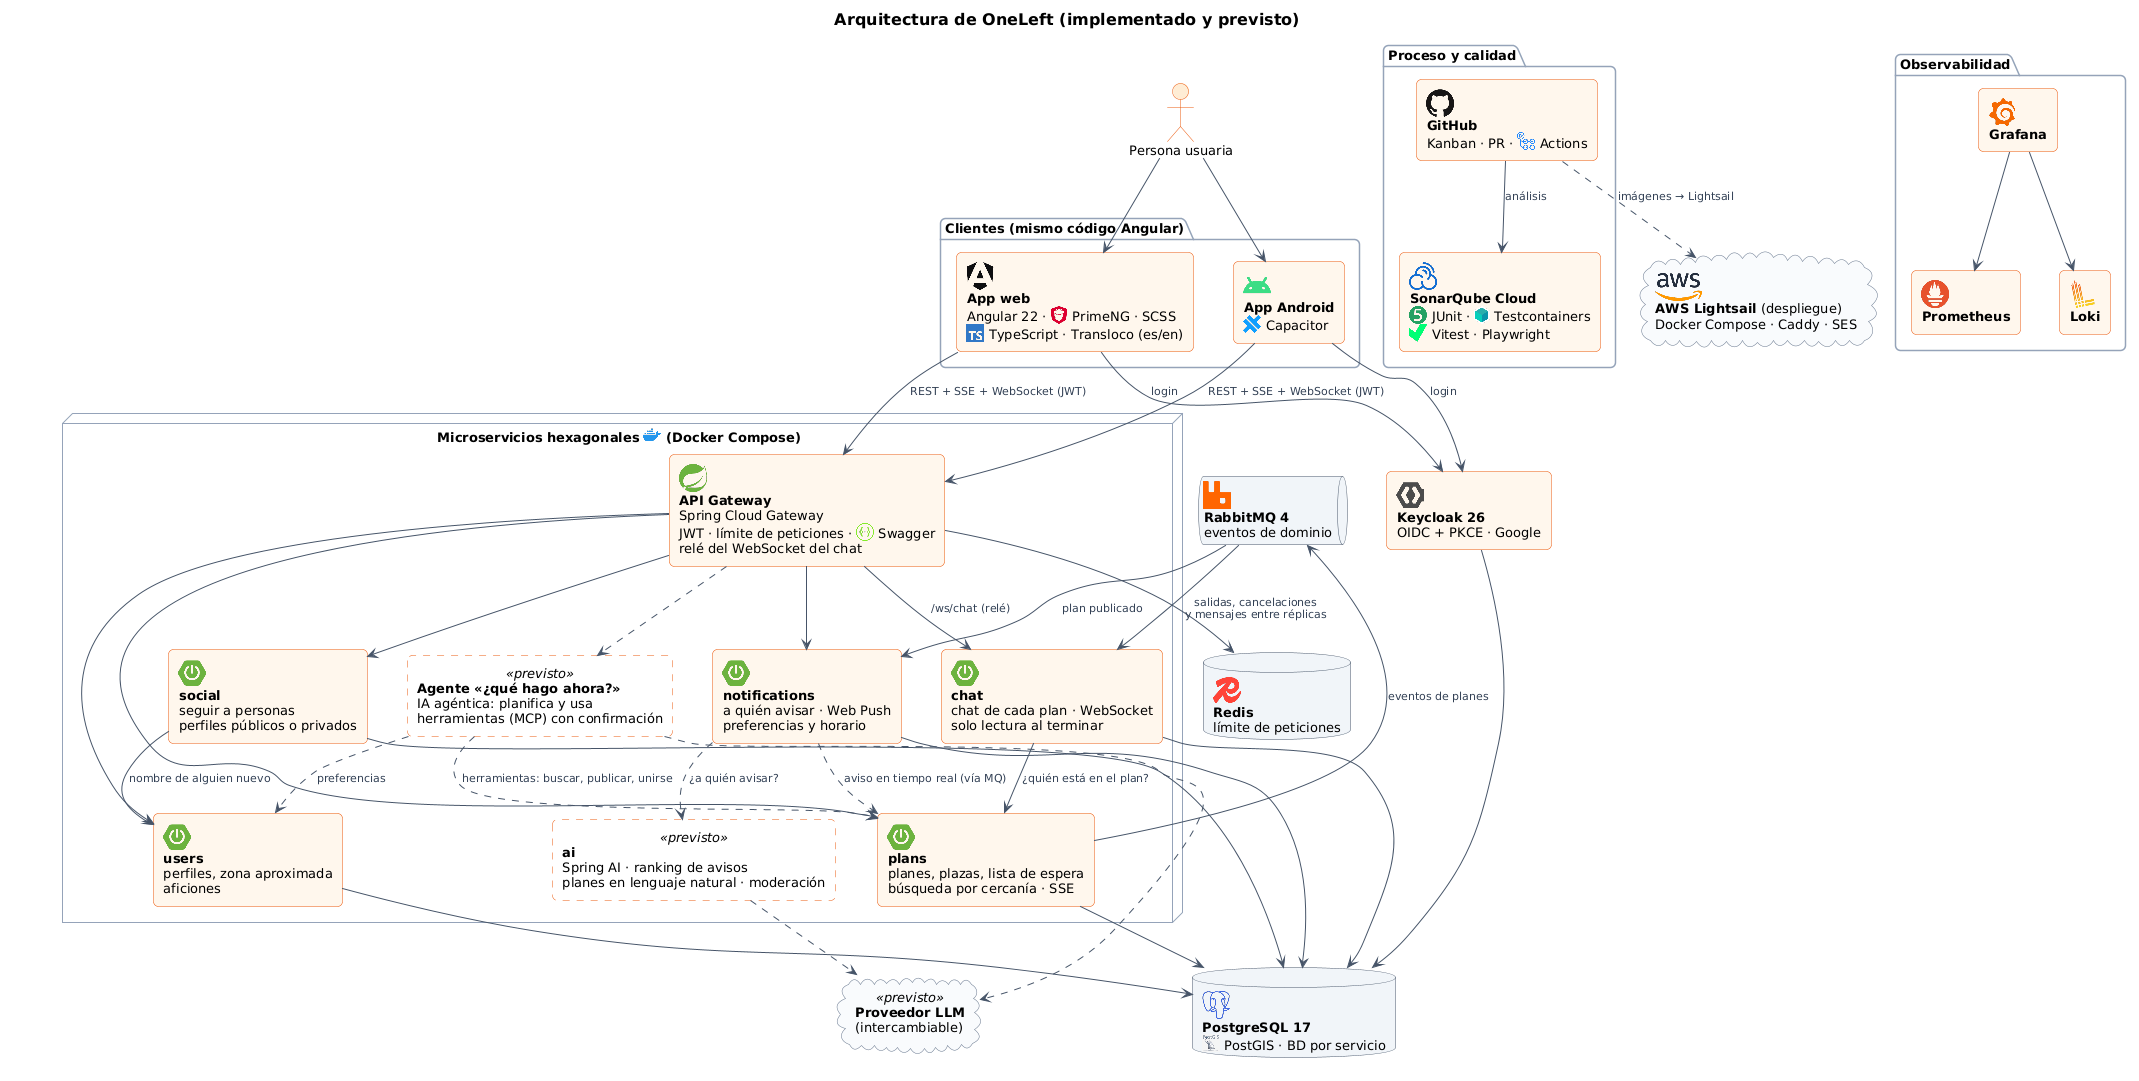
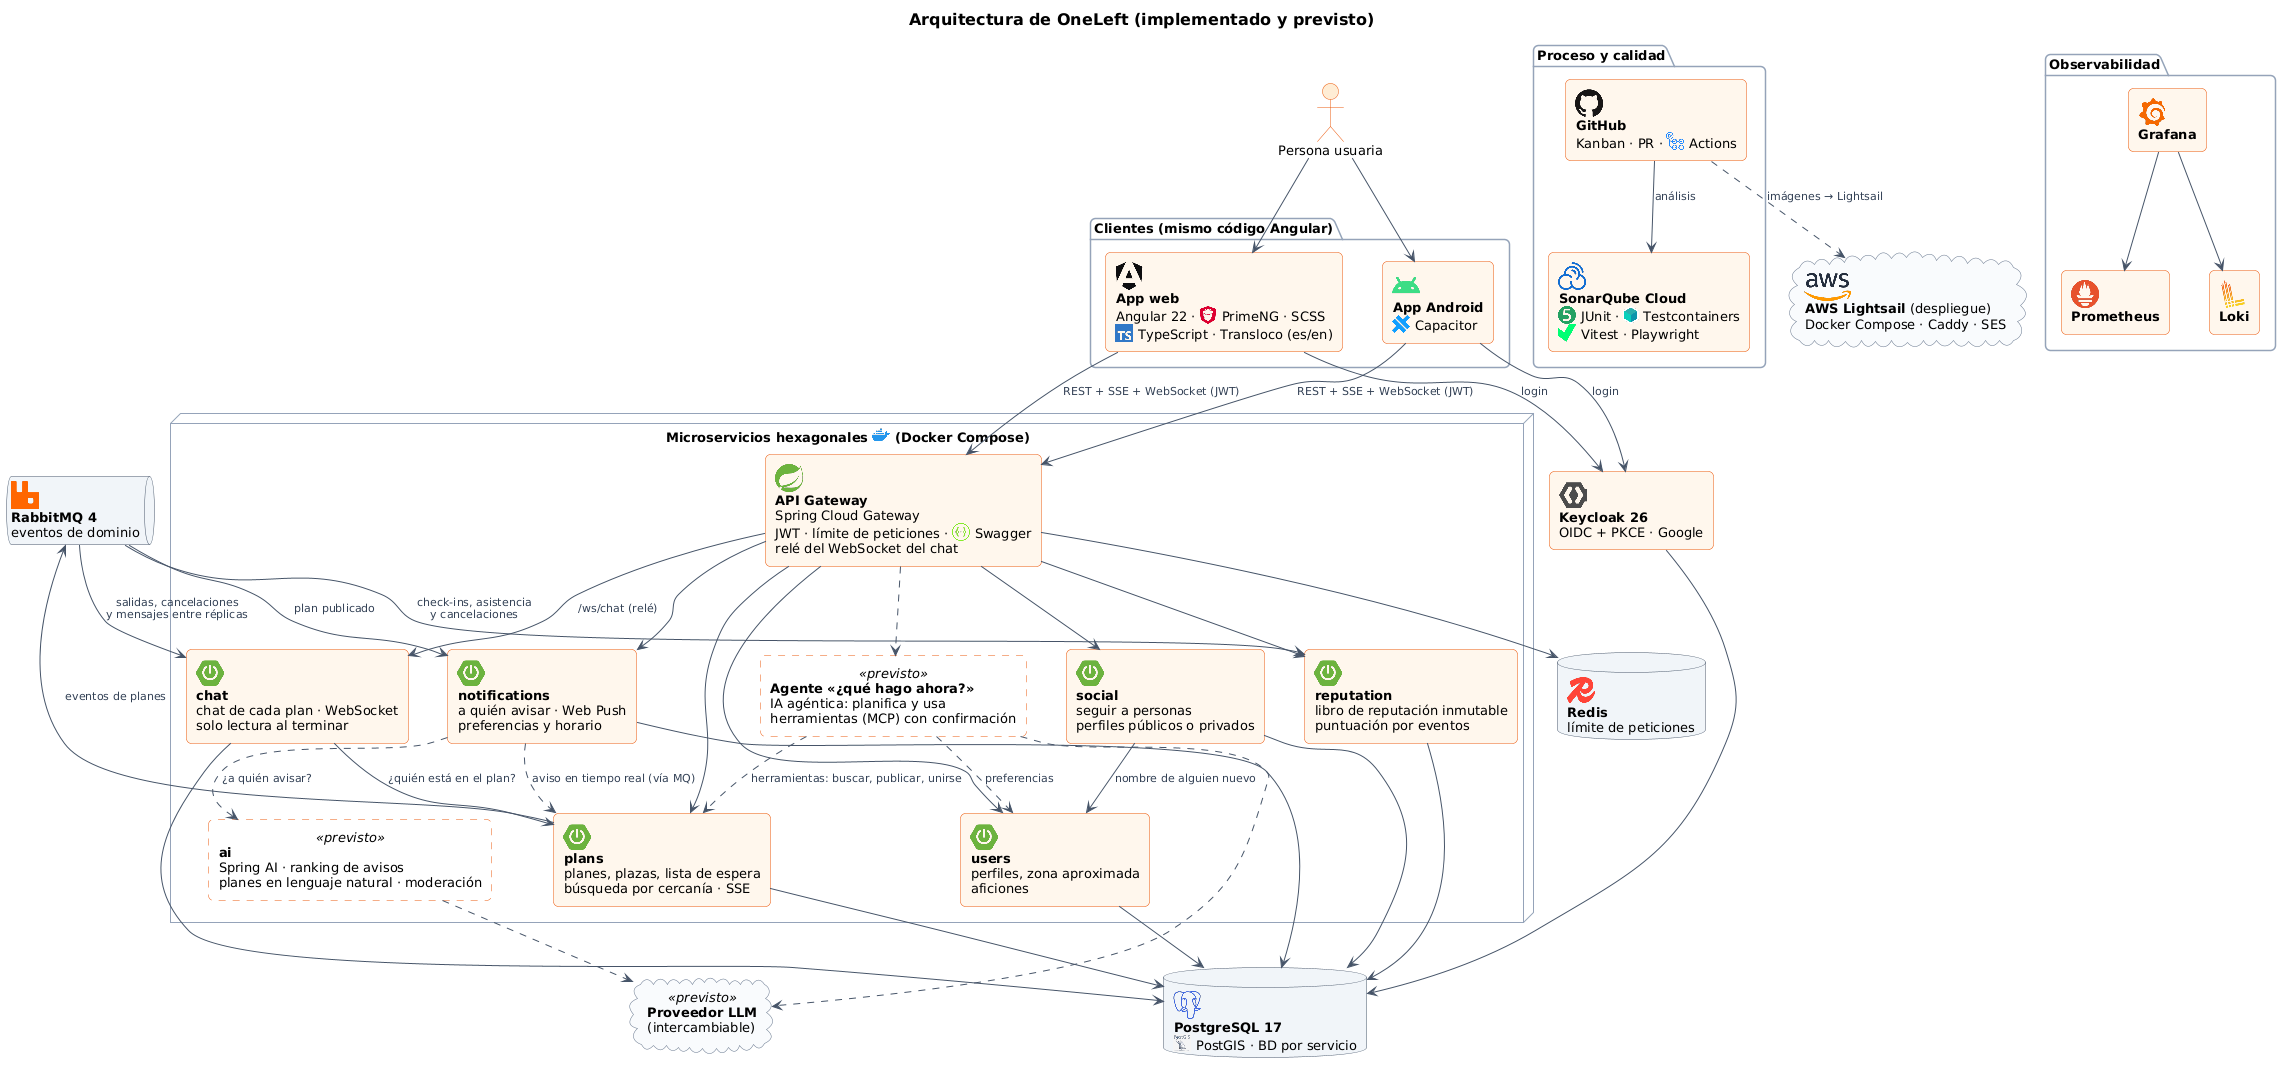
docs(process): HU-009 reputation from events #100

diff --git a/proceso/38-hu009-reputacion.md b/proceso/38-hu009-reputacion.md
@@ -1,0 +1,92 @@
+# 38 · Sprint 13: HU-009 Reputación basada en eventos
+
+**Fecha:** 13/10/2026 · **Sprint:** 13 (09–15/10/2026)
+
+## 1. Planificación
+
+| Issue | Tipo | MoSCoW | Puntos | Resultado |
+|---|---|---|---|---|
+| backend#12 · HU-009 Reputación basada en eventos (libro de reputación) | Historia | Should | 13 | PR #118 |
+| infra#62 · El servicio reputation en Docker Compose (sub-issue) | Tarea | Should | 1 | PR #63 |
+| frontend#113 · La reputación en la web y la app (sub-issue) | Historia | Should | 5 | PR #114 |
+| docs#100 · Documentación (sub-issue) | Documentación | Should | 1 | esta entrada |
+
+**Por qué ahora:** el perfil social (HU-048) pide la foto (HU-020), las insignias (HU-044) y la reputación, y ninguna
+estaba hecha. Se decidió hacer antes las dependencias, empezando por la reputación, que es la base del resto de
+historias de confianza (kudos, avales, niveles, anti-trampas).
+
+**Objetivo:** una reputación que refleje cómo es cada persona como compañera de plan. Sube al llegar a los planes y
+baja al no presentarse; cada cambio queda apuntado con su motivo y se puede consultar.
+
+## 2. Decisiones
+
+| Decisión | Motivo |
+|---|---|
+| Un **microservicio `reputation`** dirigido por eventos, con su base de datos | Lo pide la historia, y así la reputación no frena a `plans`: escucha sus eventos en colas duraderas compartidas por las réplicas y, si está caída, los procesa al volver |
+| **Libro inmutable** (`reputation_entry`) y **puntuación como proyección** (`reputation_score`) | Cada apunte guarda motivo, puntos, plan o reporte de origen y fecha. Un trigger rechaza cualquier cambio; borrar solo se permite activando `oneleft.ledger_erasure` en la transacción (derecho de supresión y limpieza de los tests). La puntuación se actualiza en la misma transacción que cada apunte nuevo y se recalcula sumando el libro (`POST /scores/rebuild`, solo administradores) |
+| Cada apunte guarda **sus puntos** | Si una regla cambia, el pasado no se reescribe |
+| Un evento repetido **cuenta una vez** (único persona + motivo + origen, `ON CONFLICT DO NOTHING`) | RabbitMQ entrega «al menos una vez» |
+| **+20 al organizar** solo si el plan **se llena y se celebra**: todas las plazas ocupadas y, al cerrar el check-in, al menos un participante llegó (decidido al planificar) | No se gana con un plan de una plaza para alguien que no va |
+| **−15 por no presentarse** solo si **alguien del grupo hizo check-in**, organizador incluido (decidido al planificar) | Así consta que el plan se celebró y que se usó el check-in; si nadie lo hizo, nadie pierde puntos |
+| `plans` publica **`plan.attendance-closed`** al cerrarse el check-in (inicio + 30 min), una vez por plan: quién llegó, quién no y si estaba lleno | La regla de los ausentes necesita saber cuándo acaba la ventana. Lo hace la tarea de cada minuto (HU-007) con una columna `attendance_closed_at`; los planes ya celebrados al desplegar cuentan como cerrados, así que nadie es juzgado por planes de antes del check-in |
+| **−10 y −50 implementadas ya** aunque aún no tienen origen (decidido al planificar) | Quien organiza todavía no puede cancelar su plan y los reportes llegan con HU-033. Las reglas, las colas y sus pruebas están listas: `plan.cancelled` lleva ya `organizerId`, y basta con que llegue el motivo `ORGANIZER` o el evento `report.confirmed` en `oneleft.reports` |
+| Un evento que falla tres veces va a **`reputation.dead-letters`** | Un mensaje roto no vuelve una y otra vez a la cola |
+| La reputación **junto al organizador**: en el detalle, en la lista de planes cercanos (**una sola petición por lista**, `GET /scores?ids=…`) y en la página de cada persona | Es donde se decide con quién quedar. Si el servicio no responde, todo se ve como antes, sin la cifra |
+
+![Secuencia de la reputación](../diagramas/secuencia/41-secuencia-reputacion.png)
+
+*Figura 131. Del check-in y del cierre de la asistencia en `plans` al libro y a la puntuación en `reputation`.
+Fuente: [`41-secuencia-reputacion.puml`](../diagramas/secuencia/src/41-secuencia-reputacion.puml).*
+
+![Base de datos de la reputación](../diagramas/datos/42-modelo-reputacion.png)
+
+*Figura 132. La base de datos `reputation`: el libro inmutable y la proyección de las puntuaciones. Fuente:
+[`42-modelo-reputacion.drawio`](../diagramas/datos/src/42-modelo-reputacion.drawio).*
+
+![Arquitectura con la reputación](../diagramas/componentes/30-arquitectura-implementada-y-prevista.png)
+
+*Figura 133. La arquitectura implementada, ya con el servicio `reputation` y los eventos que escucha. Fuente:
+[`30-arquitectura-implementada-y-prevista.puml`](../diagramas/componentes/src/30-arquitectura-implementada-y-prevista.puml).*
+
+## 3. En la app
+
+![La reputación en la app](../capturas/app-web/95-hu009-reputacion.png)
+
+*Figura 134. A la izquierda, Ana en «Mi reputación»: su puntuación, cómo funciona y su historial. Organizó un plan de
+una plaza, Lucía se apuntó e hizo check-in, y al cerrarse el check-in Ana sumó +20 por organizarlo y perdió 15 por no
+hacer check-in. En el centro y a la derecha, Lucía ve la reputación de Ana en la lista de planes cercanos y en el
+detalle de un plan suyo. Stack local real; capturas generadas con
+[`tools/capture-reputation.mjs`](../tools/capture-reputation.mjs).*
+
+## 4. Pruebas
+
+- **Dominio** (`ReputationRulesTest`): cada regla con sus casos límite (el plan que nadie celebró, el lleno sin
+  participantes que lleguen, la cancelación a menos y a más de 1 h, la del mínimo de participantes) y los datos
+  obligatorios de un apunte. En `plans`, `PlanAttendanceTest`: quién llegó y quién no, sin contar a quien ya no está
+  en el grupo.
+- **Aplicación** (`ReputationServiceTest`, `AttendanceServiceTest`): un evento repetido cuenta una vez, la puntuación
+  es la suma del libro y se recalcula desde él, las puntuaciones de varias personas en el orden pedido, y la
+  asistencia se publica una vez, justo cuando cierra el check-in.
+- **Integración** con RabbitMQ y PostgreSQL reales: en `reputation` (`ReputationIntegrationTest`), los eventos como los
+  publica `plans` (JSON sin clases compartidas), repetidos, la cancelación tardía, el evento ilegible en las cartas
+  muertas, el libro que rechaza cambios, el recálculo de un administrador y la API; borra lo que escribe con el
+  permiso de supresión. En `plans` (`AttendanceIntegrationTest`), un plan cuyo check-in cerró publica su asistencia una
+  vez y uno futuro espera; borra sus planes. Además, `HexagonalArchitectureTest` y, en el gateway,
+  `ReputationRouteTest` y `SwaggerUiTest`.
+- **Web:** «Mi reputación», la insignia, la API, y la reputación en el detalle, en la lista de cercanos (una
+  petición por lista, y la lista igual si falla), en la página de una persona y en el perfil: 231 tests. **E2E**
+  (`reputation.e2e.ts`, es y en): el servicio se responde en el navegador, así que no crea datos.
+- **De punta a punta en local:** el check-in de Lucía le sumó 10 al momento a través de RabbitMQ; tras adelantar el
+  inicio de ese plan en la base de datos local, la tarea de cada minuto cerró su asistencia y Ana recibió −15 y +20, una
+  vez cada uno.
+
+## 5. Incidencias
+
+- **La cola de un test desaparecía.** `AttendanceIntegrationTest` fallaba en la CI porque su cola anónima, exclusiva
+  de una conexión, ya no existía al leerla. Con una cola con nombre, no exclusiva, se descubrió además que RabbitMQ 4
+  ya no admite colas no exclusivas y no duraderas (`transient_nonexcl_queues`); la cola del test es duradera y se
+  borra al terminar.
+- **El stack local no cabe en 4 GB.** Al levantar `reputation`, el kernel de la máquina virtual de Docker mató `plans`
+  por falta de memoria (código 137). Para las pruebas y las capturas se pararon `chat` y `notifications`, que no hacían
+  falta, y se volvieron a levantar al terminar. Con los doce contenedores el stack ronda los 3,3 GB de 3,8: los
+  siguientes servicios necesitarán más memoria para Docker o arrancar solo los que se usen.

diff --git a/proceso/README.md b/proceso/README.md
@@ -42,6 +42,7 @@ implementación y gestión del proyecto de la memoria.
 | 13/10/2026 | Sprint 13 | [35 · Release: cuarta promoción de dev a pre](35-release-pre-4.md) |
 | 13/10/2026 | Sprint 13 | [36 · HU-025 Check-in al llegar al punto de encuentro](36-hu025-check-in.md) |
 | 13/10/2026 | Sprint 13 | [37 · HU-047 Seguir a personas](37-hu047-seguir-a-personas.md) |
+| 13/10/2026 | Sprint 13 | [38 · HU-009 Reputación basada en eventos](38-hu009-reputacion.md) |
 
 ## Convenciones
 
